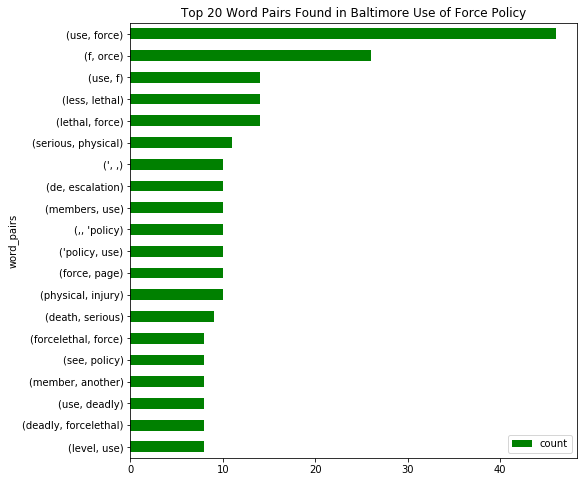
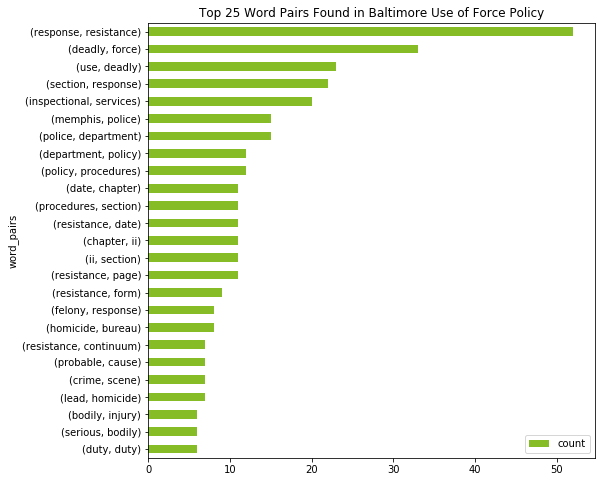
Viz Branding
Made the two bar charts Deloitte green!

diff --git a/Code/NLP Analysis Script.py b/Code/NLP Analysis Script.py
@@ -191,7 +191,7 @@ fig, ax = plt.subplots(figsize=(8, 8))
 balt_freq_df.sort_values(by='count').plot.barh(x='words',
                       y='count',
                       ax=ax,
-                      color="green")
+                      color="#86BC25")
 
 # Set the title of the graph
 ax.set_title("Top 20 Words Found in Baltimore Use of Force Policy")
@@ -215,8 +215,11 @@ balt_bigrams = list(nltk.bigrams(balt_filtered_again))
 # Create counter of words in clean bigrams
 bigram_counts = collections.Counter(balt_bigrams)
 
+# How many word-pairs do we want to show?
+num = 25
+
 # What's the most common pair of words?
-bi_counts = bigram_counts.most_common(50)
+bi_counts = bigram_counts.most_common(num)
 print(f"Our top {len(bi_counts)} words, and their associated frequencies, are:\n{bi_counts}")
 
 
@@ -231,10 +234,13 @@ fig, ax = plt.subplots(figsize=(8, 8))
 balt_bigram_df.sort_values(by='count').plot.barh(x='word_pairs',
                       y='count',
                       ax=ax,
-                      color="green")
+                      # Deloitte Green
+                      color="#86BC25")
 
 # Set the title of the graph
-ax.set_title("Top 20 Word Pairs Found in Baltimore Use of Force Policy")
+ax.set_title(f"Top {num} Word Pairs Found in Baltimore Use of Force Policy")
 
 plt.show()
 plt.clf()
+
+
